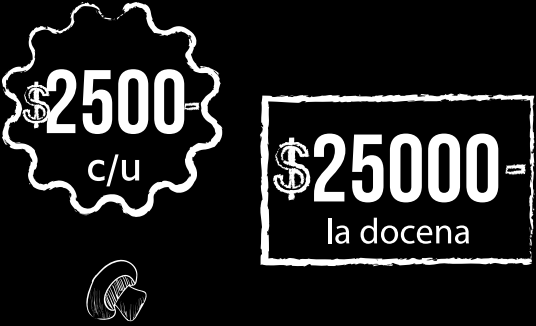
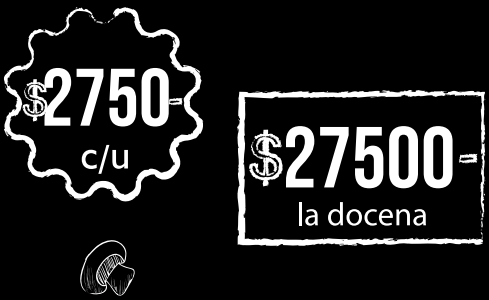
Actu-octubre+MP

diff --git a/src/data/Pizzas-data.jsx b/src/data/Pizzas-data.jsx
@@ -1,30 +1,30 @@
 const productos = [
-    { id: 1, nombre: 'Mozzarella', descripcion: 'Salsa de tomate y mozzarella', precio: 14000 },
-    { id: 2, nombre: 'Doble Mozza', descripcion: 'Salsa de tomate y doble mozzarella', precio: 19500 },
-    { id: 3, nombre: 'Mozza c/Jamón', descripcion: 'Salsa de tomate, mozzarella y jamón', precio: 19000 },
-    { id: 4, nombre: 'Mozza c/anchoas', descripcion: 'Salsa de tomate, mozzarella y anchoas', precio: 22000 },
-    { id: 5, nombre: 'Jamón y Morrón', descripcion: 'Salsa de tomate, mozzarella , jamón y morrón', precio: 24000 },
-    { id: 6, nombre: 'Napolitana', descripcion: 'Salsa de tomate, mozzarella y tomate natural', precio: 19000 },
-    { id: 7, nombre: 'Napolitana y Jamón', descripcion: 'Salsa de tomate, mozzarella, tomate natural y jamón', precio: 24000 },
-    { id: 8, nombre: 'Fugaza c/Queso', descripcion: 'cebolla y mozzarella', precio: 19000 },
+    { id: 1, nombre: 'Mozzarella', descripcion: 'Salsa de tomate y mozzarella', precio: 15000 },
+    { id: 2, nombre: 'Doble Mozza', descripcion: 'Salsa de tomate y doble mozzarella', precio: 22500 },
+    { id: 3, nombre: 'Mozza c/Jamón', descripcion: 'Salsa de tomate, mozzarella y jamón', precio: 20000 },
+    { id: 4, nombre: 'Mozza c/anchoas', descripcion: 'Salsa de tomate, mozzarella y anchoas', precio: 24000 },
+    { id: 5, nombre: 'Jamón y Morrón', descripcion: 'Salsa de tomate, mozzarella , jamón y morrón', precio: 25000 },
+    { id: 6, nombre: 'Napolitana', descripcion: 'Salsa de tomate, mozzarella y tomate natural', precio: 20000 },
+    { id: 7, nombre: 'Napolitana y Jamón', descripcion: 'Salsa de tomate, mozzarella, tomate natural y jamón', precio: 25000 },
+    { id: 8, nombre: 'Fugaza c/Queso', descripcion: 'cebolla y mozzarella', precio: 20000 },
     // { id: 9, nombre: 'Fugaza rellena', descripcion: 'cebolla, mozzarella y jamón', precio: 27000 }, // Este no figura en el menú, mantengo el precio anterior
-    { id: 10, nombre: 'Salchicha', descripcion: 'Salsa de tomate, mozzarella y salchicha', precio: 19500 },
-    { id: 11, nombre: 'Palmitos', descripcion: 'Salsa de tomate, mozzarella y palmito', precio: 22500 },
-    { id: 12, nombre: 'Palmitos c/Jamón', descripcion: 'Salsa de tomate, mozzarella, palmito y jamón', precio: 25500 },
-    { id: 13, nombre: 'Champiñones', descripcion: 'Salsa de tomate, mozzarella y champiñon', precio: 22500 },
-    { id: 14, nombre: 'Hawaiana', descripcion: 'Salsa de tomate, mozzarella, jamón y ananá ', precio: 29500 },
-    { id: 15, nombre: 'Piamontesa', descripcion: 'Salsa de tomate, mozzarella, calabresa, champiñones y panceta', precio: 33500 },
-    { id: 16, nombre: 'Primavera', descripcion: 'Salsa de tomate, mozzarella, tomate, huevo y jamón', precio: 27500 },
-    { id: 17, nombre: 'Huevo', descripcion: 'Salsa de tomate, mozzarella y huevo', precio: 19000 },
-    { id: 18, nombre: 'Huevo c/Jamón', descripcion: 'Salsa de tomate, mozzarella, jamón y huevo', precio: 24000 },
-    { id: 19, nombre: 'Provolone', descripcion: 'Salsa de tomate, mozzarella y provolone', precio: 22000 },
-    { id: 20, nombre: 'Roquefort', descripcion: 'Salsa de tomate, mozzarella y roquefort', precio: 22000 },
-    { id: 21, nombre: 'Calabresa', descripcion: 'Salsa de tomate, mozzarella y calabresa', precio: 20500 },
-    { id: 22, nombre: 'Calabresa Especial', descripcion: 'Salsa de tomate, mozzarella, calabresa y morrón', precio: 25500 },
-    { id: 23, nombre: 'Rúcula y Parmesano', descripcion: 'Salsa de tomate, mozzarella, rúcula natural y parmesano', precio: 22000 },
-    { id: 24, nombre: 'Rúcula y Provolone', descripcion: 'Salsa de tomate, mozzarella, rúcula natural  y provolone', precio: 24500 },
-    { id: 25, nombre: 'Rúcula y Jamón Crudo', descripcion: 'Salsa de tomate, mozzarella, rúcula natural  y jamón crudo', precio: 27500 },
-    { id: 26, nombre: 'Especial BLOCK', descripcion: 'Salsa de tomate, mozzarella, panceta, huevos fritos y papas fritas', precio: 35000 },
+    { id: 10, nombre: 'Salchicha', descripcion: 'Salsa de tomate, mozzarella y salchicha', precio: 22500 },
+    { id: 11, nombre: 'Palmitos', descripcion: 'Salsa de tomate, mozzarella y palmito', precio: 24000 },
+    { id: 12, nombre: 'Palmitos c/Jamón', descripcion: 'Salsa de tomate, mozzarella, palmito y jamón', precio: 26500 },
+    { id: 13, nombre: 'Champiñones', descripcion: 'Salsa de tomate, mozzarella y champiñon', precio: 24000 },
+    { id: 14, nombre: 'Hawaiana', descripcion: 'Salsa de tomate, mozzarella, jamón y ananá ', precio: 32500 },
+    { id: 15, nombre: 'Piamontesa', descripcion: 'Salsa de tomate, mozzarella, calabresa, champiñones y panceta', precio: 35000 },
+    { id: 16, nombre: 'Primavera', descripcion: 'Salsa de tomate, mozzarella, tomate, huevo y jamón', precio: 30000 },
+    { id: 17, nombre: 'Huevo', descripcion: 'Salsa de tomate, mozzarella y huevo', precio: 20000 },
+    { id: 18, nombre: 'Huevo c/Jamón', descripcion: 'Salsa de tomate, mozzarella, jamón y huevo', precio: 25000 },
+    { id: 19, nombre: 'Provolone', descripcion: 'Salsa de tomate, mozzarella y provolone', precio: 24000 },
+    { id: 20, nombre: 'Roquefort', descripcion: 'Salsa de tomate, mozzarella y roquefort', precio: 24000 },
+    { id: 21, nombre: 'Calabresa', descripcion: 'Salsa de tomate, mozzarella y calabresa', precio: 22500 },
+    { id: 22, nombre: 'Calabresa Especial', descripcion: 'Salsa de tomate, mozzarella, calabresa y morrón', precio: 27500 },
+    { id: 23, nombre: 'Rúcula y Parmesano', descripcion: 'Salsa de tomate, mozzarella, rúcula natural y parmesano', precio: 25000 },
+    { id: 24, nombre: 'Rúcula y Provolone', descripcion: 'Salsa de tomate, mozzarella, rúcula natural  y provolone', precio: 27500 },
+    { id: 25, nombre: 'Rúcula y Jamón Crudo', descripcion: 'Salsa de tomate, mozzarella, rúcula natural  y jamón crudo', precio: 32000 },
+    { id: 26, nombre: 'Especial BLOCK', descripcion: 'Salsa de tomate, mozzarella, panceta, huevos fritos y papas fritas', precio: 37500 },
     { id: 27, nombre: 'Faina (porción)', descripcion: '', precio: 2000 }
 ];
 

diff --git a/src/data/Milanesas-data.jsx b/src/data/Milanesas-data.jsx
@@ -1,19 +1,17 @@
-const milanesasData = [
-    { id: 1, nombre: 'Milanesa', descripcion: 'Milanesas + papas fritas', precio: 22000 },
-    { id: 2, nombre: 'Napolitana', descripcion: 'Salsa de tomate, mozzarella y tomate natural + fritas', precio: 29500 },
-    { id: 3, nombre: 'Jamón y Morrón', descripcion: 'Salsa de tomate, mozzarella , jamón y morrón', precio: 35000 },
-    { id: 4, nombre: 'Jamón y Huevo', descripcion: 'Salsa de tomate, mozzarella, jamón y huevo duro + fritas', precio: 35000 },
-    { id: 5, nombre: 'Fugazza c/Queso', descripcion: 'Mozzarella y cebolla + fritas', precio: 29500 },
-    { id: 6, nombre: 'Primavera', descripcion: 'Salsa de tomate, mozzarella, tomate, huevo y jamón + fritas', precio: 37500 },
-    { id: 7, nombre: 'Provolone', descripcion: 'Salsa de tomate, mozzarella y provolone + fritas', precio: 32000 },
-    { id: 8, nombre: 'Roquefort', descripcion: 'Salsa de tomate, mozzarella y roquefort + fritas', precio: 32000 },
-    { id: 9, nombre: 'Hawaiana', descripcion: 'Salsa de tomate, mozzarella, jamón y ananá + fritas', precio: 37500 },
-    { id: 10, nombre: 'Calabresa', descripcion: 'Salsa de tomate, mozzarella y calabresa + fritas', precio: 32000 },
-    { id: 11, nombre: 'Rúcula y Jamón Crudo', descripcion: 'Salsa de tomate, mozzarella, rúcula natural y jamón crudo + fritas', precio: 37500 },
+const milanesasData = [ 
+    { id: 1, nombre: 'Milanesa', descripcion: 'Milanesas + papas fritas', precio: 24000 },
+    { id: 2, nombre: 'Napolitana', descripcion: 'Salsa de tomate, mozzarella y tomate natural + fritas', precio: 32000 },
+    { id: 3, nombre: 'Jamón y Morrón', descripcion: 'Salsa de tomate, mozzarella , jamón y morrón', precio: 37500 },
+    { id: 4, nombre: 'Jamón y Huevo', descripcion: 'Salsa de tomate, mozzarella, jamón y huevo duro + fritas', precio: 37500 },
+    { id: 5, nombre: 'Fugazza c/Queso', descripcion: 'Mozzarella y cebolla + fritas', precio: 32000 },
+    { id: 6, nombre: 'Primavera', descripcion: 'Salsa de tomate, mozzarella, tomate, huevo y jamón + fritas', precio: 40000 },
+    { id: 7, nombre: 'Provolone', descripcion: 'Salsa de tomate, mozzarella y provolone + fritas', precio: 35000 },
+    { id: 8, nombre: 'Roquefort', descripcion: 'Salsa de tomate, mozzarella y roquefort + fritas', precio: 35000 },
+    { id: 9, nombre: 'Hawaiana', descripcion: 'Salsa de tomate, mozzarella, jamón y ananá + fritas', precio: 42500 },
+    { id: 10, nombre: 'Calabresa', descripcion: 'Salsa de tomate, mozzarella y calabresa + fritas', precio: 35000 },
+    { id: 11, nombre: 'Rúcula y Jamón Crudo', descripcion: 'Salsa de tomate, mozzarella, rúcula natural y jamón crudo + fritas', precio: 40000 },
     { id: 12, nombre: 'Rúcula y Parmesano', descripcion: 'Salsa de tomate, mozzarella, rúcula natural y parmesano + fritas', precio: 37500 },
-    { id: 13, nombre: 'Mila BLOCK', descripcion: 'Salsa de tomate, mozzarella, panceta, huevos fritos y papas fritas + porción de fritas', precio: 40000 },
+    { id: 13, nombre: 'Mila BLOCK', descripcion: 'Salsa de tomate, mozzarella, panceta, huevos fritos y papas fritas + porción de fritas', precio: 45000 },
     { id: 14, nombre: 'Porción de Fritas', descripcion: '(Para Compartir)', precio: 10000 },
     { id: 15, nombre: 'Fritas', descripcion: '(Media Porción)', precio: 8000 }
 ];
-
-export default milanesasData;

diff --git a/src/components/Navbar.jsx b/src/components/Navbar.jsx
@@ -1,6 +1,7 @@
 import './Navbar.css'
 import logo from '../assets/logo.png';
 import React, { useEffect, useState } from 'react';
+import mpBanner from '../assets/MP-5%.png';
 
 
 function Navbar() {
@@ -24,6 +25,8 @@ function Navbar() {
         <div className="header">
             <div className="logo-container">
                  <img src={logo} alt="Logo Pizza Block" />
+
+                 <img src={mpBanner} alt="5% Extra Mercado Pago" className="mp-banner" />
             </div>
           <div className="navbar">
             <nav className={isSticky ? 'navbar_nav sticky' : 'navbar_nav'}>

diff --git a/src/components/Navbar.css b/src/components/Navbar.css
@@ -23,10 +23,16 @@
     justify-content: center;
     align-items: center;
     padding: 20px;
+    gap: 20px; /* espacio entre logo y banner */
 }
 
 .logo-container img{
     width: 120px;
+}
+
+.mp-banner {
+  height: 50px; /* más chico que el logo */
+  object-fit: contain;
 }
   
 .navbar_nav ul {
